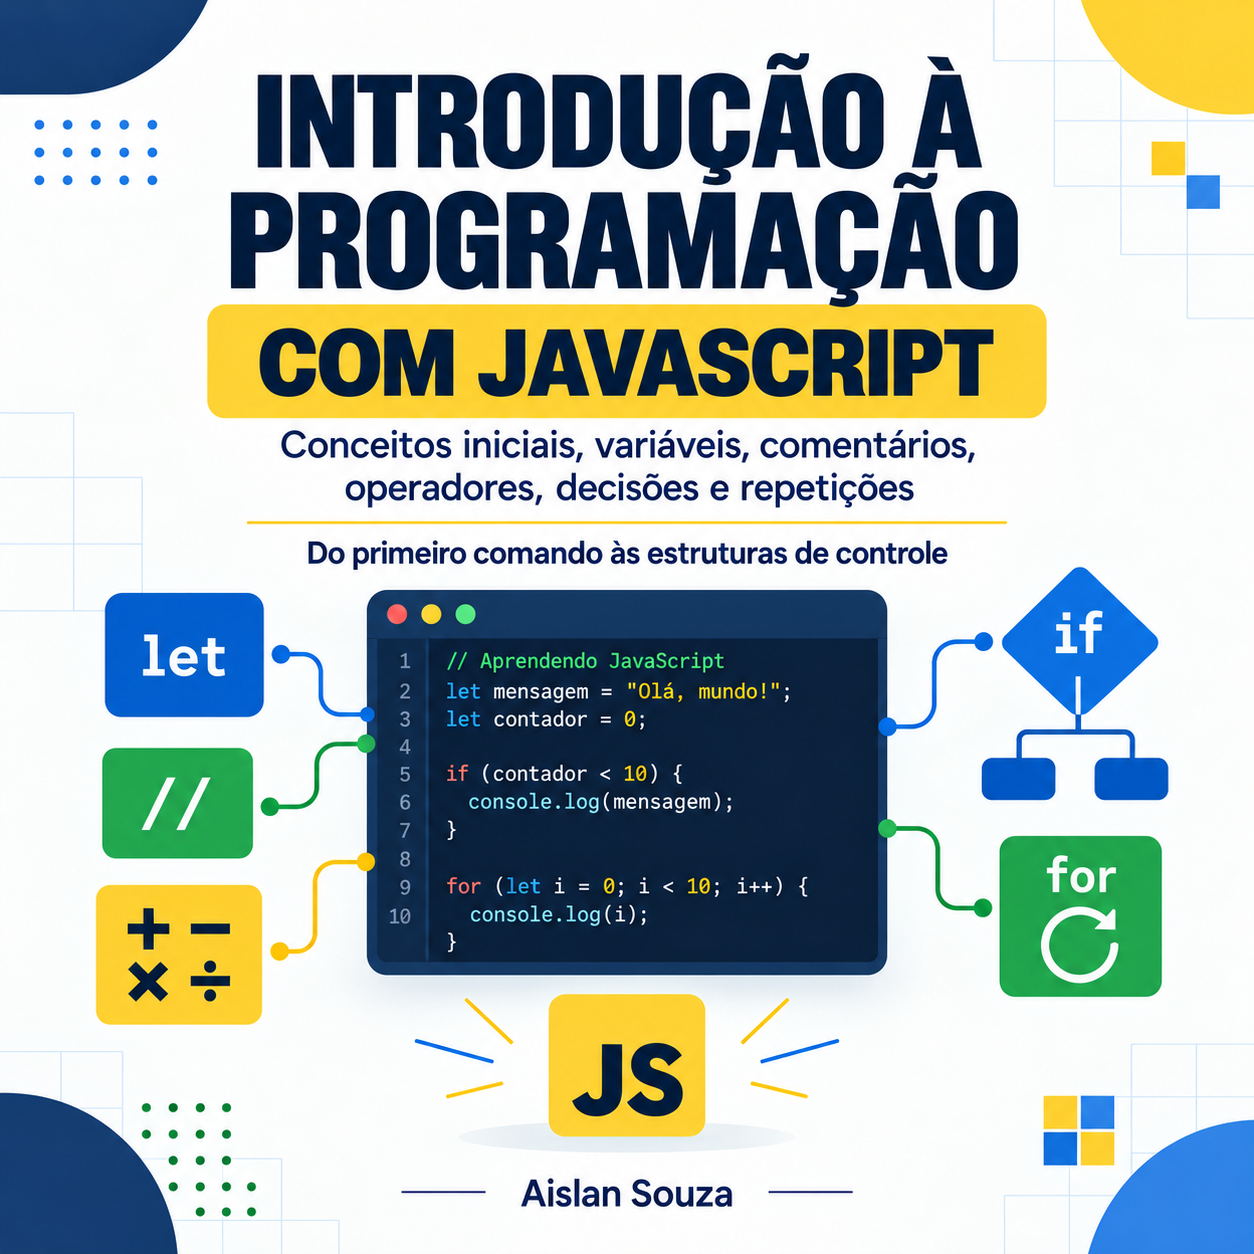
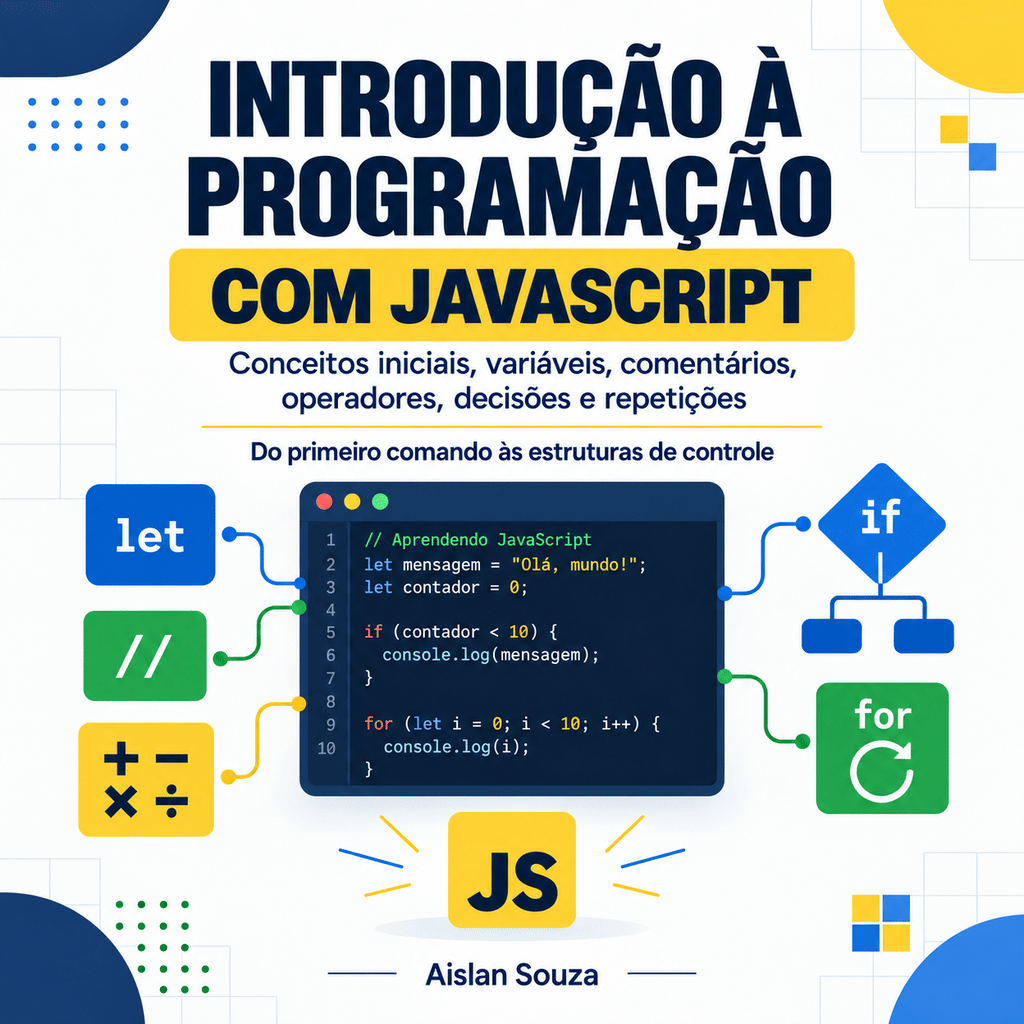
Add files via upload

diff --git a/index.html b/index.html
@@ -139,6 +139,25 @@
     padding:.15rem .45rem;
   }
 
+  .falta{
+    display:inline-block;
+    background:rgba(245,184,78,.15);
+    border:1px dashed #f5b84e;
+    color:#f5b84e;
+    font-family:var(--mono);
+    font-size:.68rem;
+    letter-spacing:.06em;
+    text-transform:uppercase;
+    padding:.15em .55em;
+    border-radius:4px;
+    white-space:nowrap;
+  }
+
+  .formato{margin-top:.9rem;font-family:var(--mono);font-size:.74rem;letter-spacing:.04em;color:var(--muted)}
+  .formato a{color:var(--green);text-decoration:none;border-bottom:1px solid rgba(47,210,122,.3)}
+  .formato a:hover{border-bottom-color:var(--green)}
+  .formato a:focus-visible{outline:2px solid var(--blue);outline-offset:3px}
+
   .acao{display:flex;flex-direction:column;align-items:flex-start;gap:.7rem}
   @media (min-width:721px){.acao{align-items:flex-end;text-align:right}}
   .preco{font-family:var(--display);font-weight:800;font-size:1.6rem;letter-spacing:-.03em;line-height:1}
@@ -224,7 +243,7 @@
 
 <section class="catalogo">
   <div class="wrap">
-    <p class="eyebrow">SELECT * FROM materiais <span class="n">1 disponível · 1 em produção</span></p>
+    <p class="eyebrow">SELECT * FROM materiais <span class="n">3 disponíveis</span></p>
 
     <article class="item">
       <div class="capa">
@@ -240,6 +259,7 @@
         <ul class="tags">
           <li>SQL</li><li>PHP</li><li>MySQL</li><li>PDO</li><li>JOINs</li><li>Índices</li><li>Segurança</li><li>Deploy</li>
         </ul>
+        <p class="formato">Disponível também em <a href="livro.html">livro impresso</a></p>
       </div>
       <div class="acao">
         <p class="preco"><sup>R$</sup>37<small>27 módulos + bônus</small></p>
@@ -249,22 +269,43 @@
 
     <article class="item">
       <div class="capa">
-        <img src="capa-js.png" alt="Capa do material JavaScript: Introdução à Programação, de Aislan Souza" width="1024" height="1536" loading="lazy">
+        <img src="capa-workbench.png" alt="Capa do material Criando um Banco de Dados do Zero: Projeto Prático de Controle de Estoque" width="1024" height="1448" loading="lazy">
       </div>
       <div class="meta">
         <div class="linha">
           <span class="id">#02 · E-book</span>
-          <span class="pill off">Em produção</span>
+          <span class="pill on">Disponível</span>
         </div>
-        <h3>JavaScript: Introdução à Programação</h3>
-        <p>Conceitos iniciais, variáveis, comentários e operadores aritméticos — a base da linguagem explicada com o código ao lado, no mesmo formato direto ao ponto do primeiro material.</p>
+        <h3>Criando um Banco de Dados do Zero</h3>
+        <p>Um projeto de controle de estoque do começo ao fim, no MySQL Workbench: você modela no diagrama EER, gera o banco com Forward Engineer e sai com Views, Procedures, Triggers e backup funcionando. Cada página é uma etapa, com a tela do Workbench marcada passo a passo.</p>
         <ul class="tags">
-          <li>JavaScript</li><li>let, const e var</li><li>Comentários</li><li>Operadores</li><li>Lógica</li>
+          <li>MySQL Workbench</li><li>Modelagem EER</li><li>CRUD</li><li>Views</li><li>Procedures</li><li>Triggers</li><li>Índices</li><li>Backup</li>
         </ul>
       </div>
       <div class="acao">
-        <p class="preco em-breve">Em breve<small>lançamento em preparação</small></p>
-        <a class="btn fantasma" href="mailto:aislan.ss29@gmail.com?subject=Me%20avise%20quando%20o%20material%20de%20JavaScript%20sair">Avise-me</a>
+        <p class="preco"><sup>R$</sup>19,90<small>20 etapas ilustradas</small></p>
+        <a class="btn" href="https://pay.hotmart.com/D107600037D">Ver o material</a>
+      </div>
+    </article>
+
+    <article class="item">
+      <div class="capa">
+        <img src="capa-js.png" alt="Capa do material Introdução à Programação com JavaScript, de Aislan Souza" width="1024" height="1024" loading="lazy">
+      </div>
+      <div class="meta">
+        <div class="linha">
+          <span class="id">#03 · E-book</span>
+          <span class="pill on">Disponível</span>
+        </div>
+        <h3>Introdução à Programação com JavaScript</h3>
+        <p>Do primeiro comando às estruturas de controle. Começa em variáveis e comentários e vai até onde o código toma decisões e repete tarefas sozinho — que é exatamente onde a maioria trava ao aprender a programar.</p>
+        <ul class="tags">
+          <li>JavaScript</li><li>let, const e var</li><li>Comentários</li><li>Operadores</li><li>if e else</li><li>Repetições</li><li>Lógica</li>
+        </ul>
+      </div>
+      <div class="acao">
+        <p class="preco"><sup>R$</sup>19,90<small>39 páginas</small></p>
+        <a class="btn" href="https://pay.hotmart.com/F107599285W">Ver o material</a>
       </div>
     </article>
   </div>
